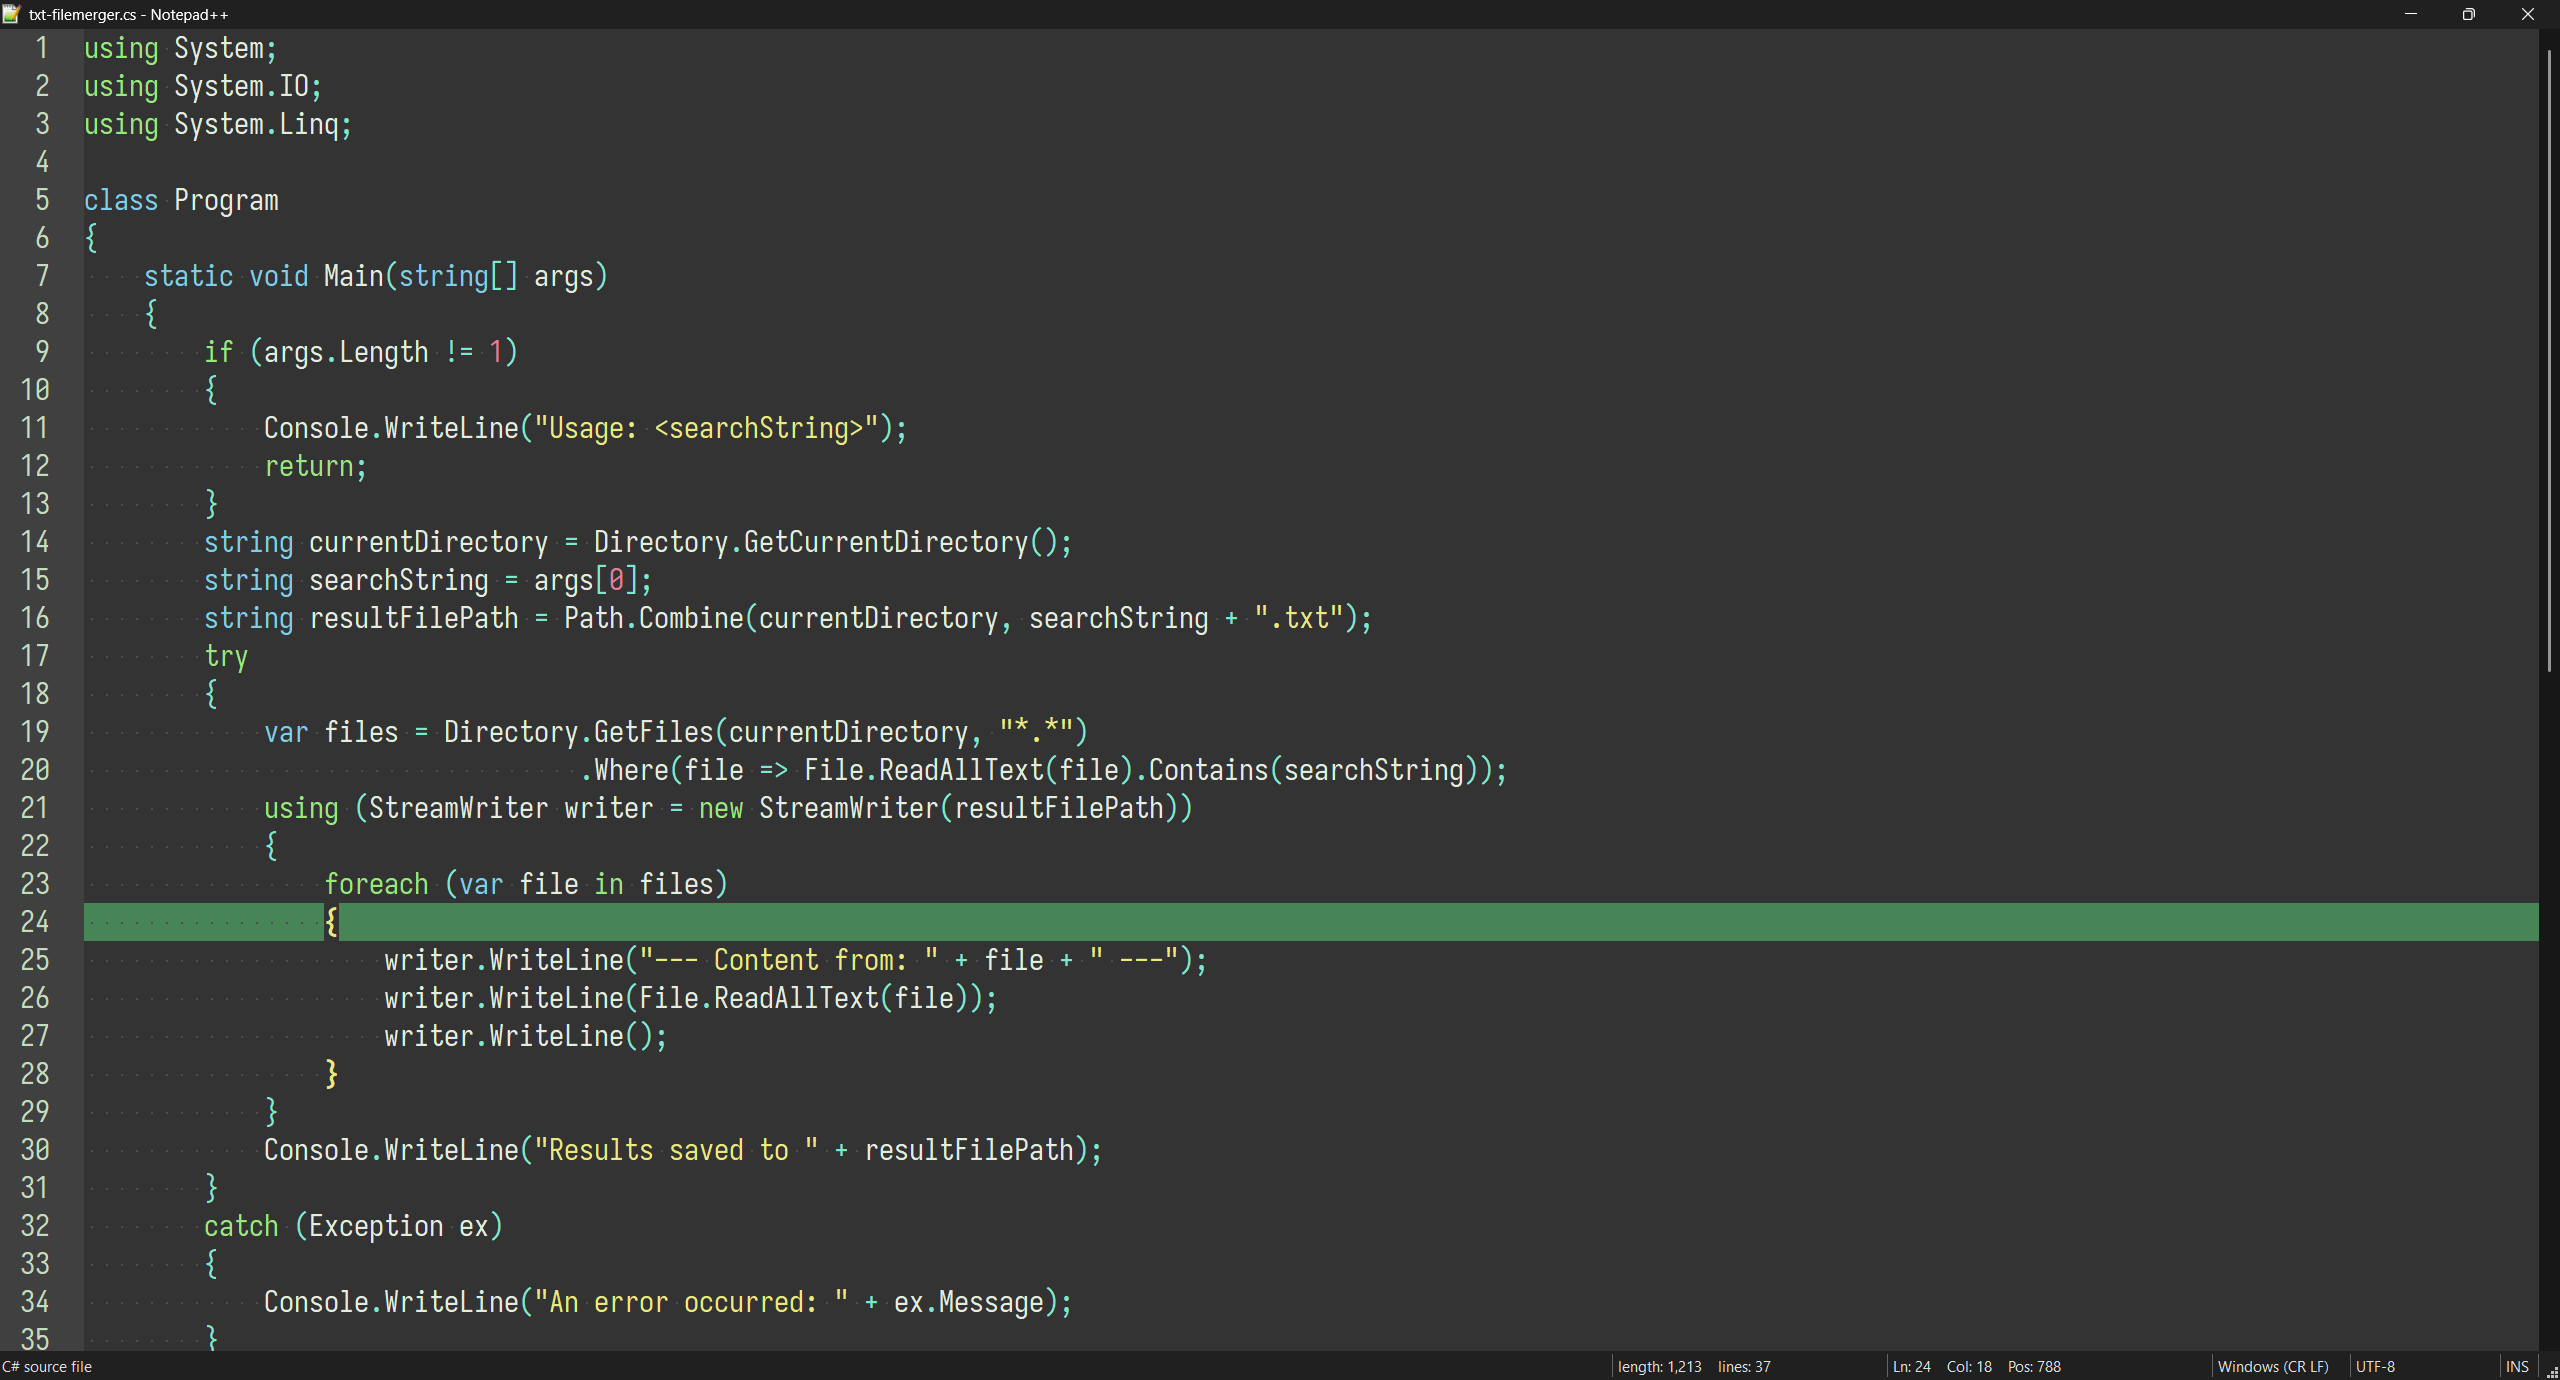
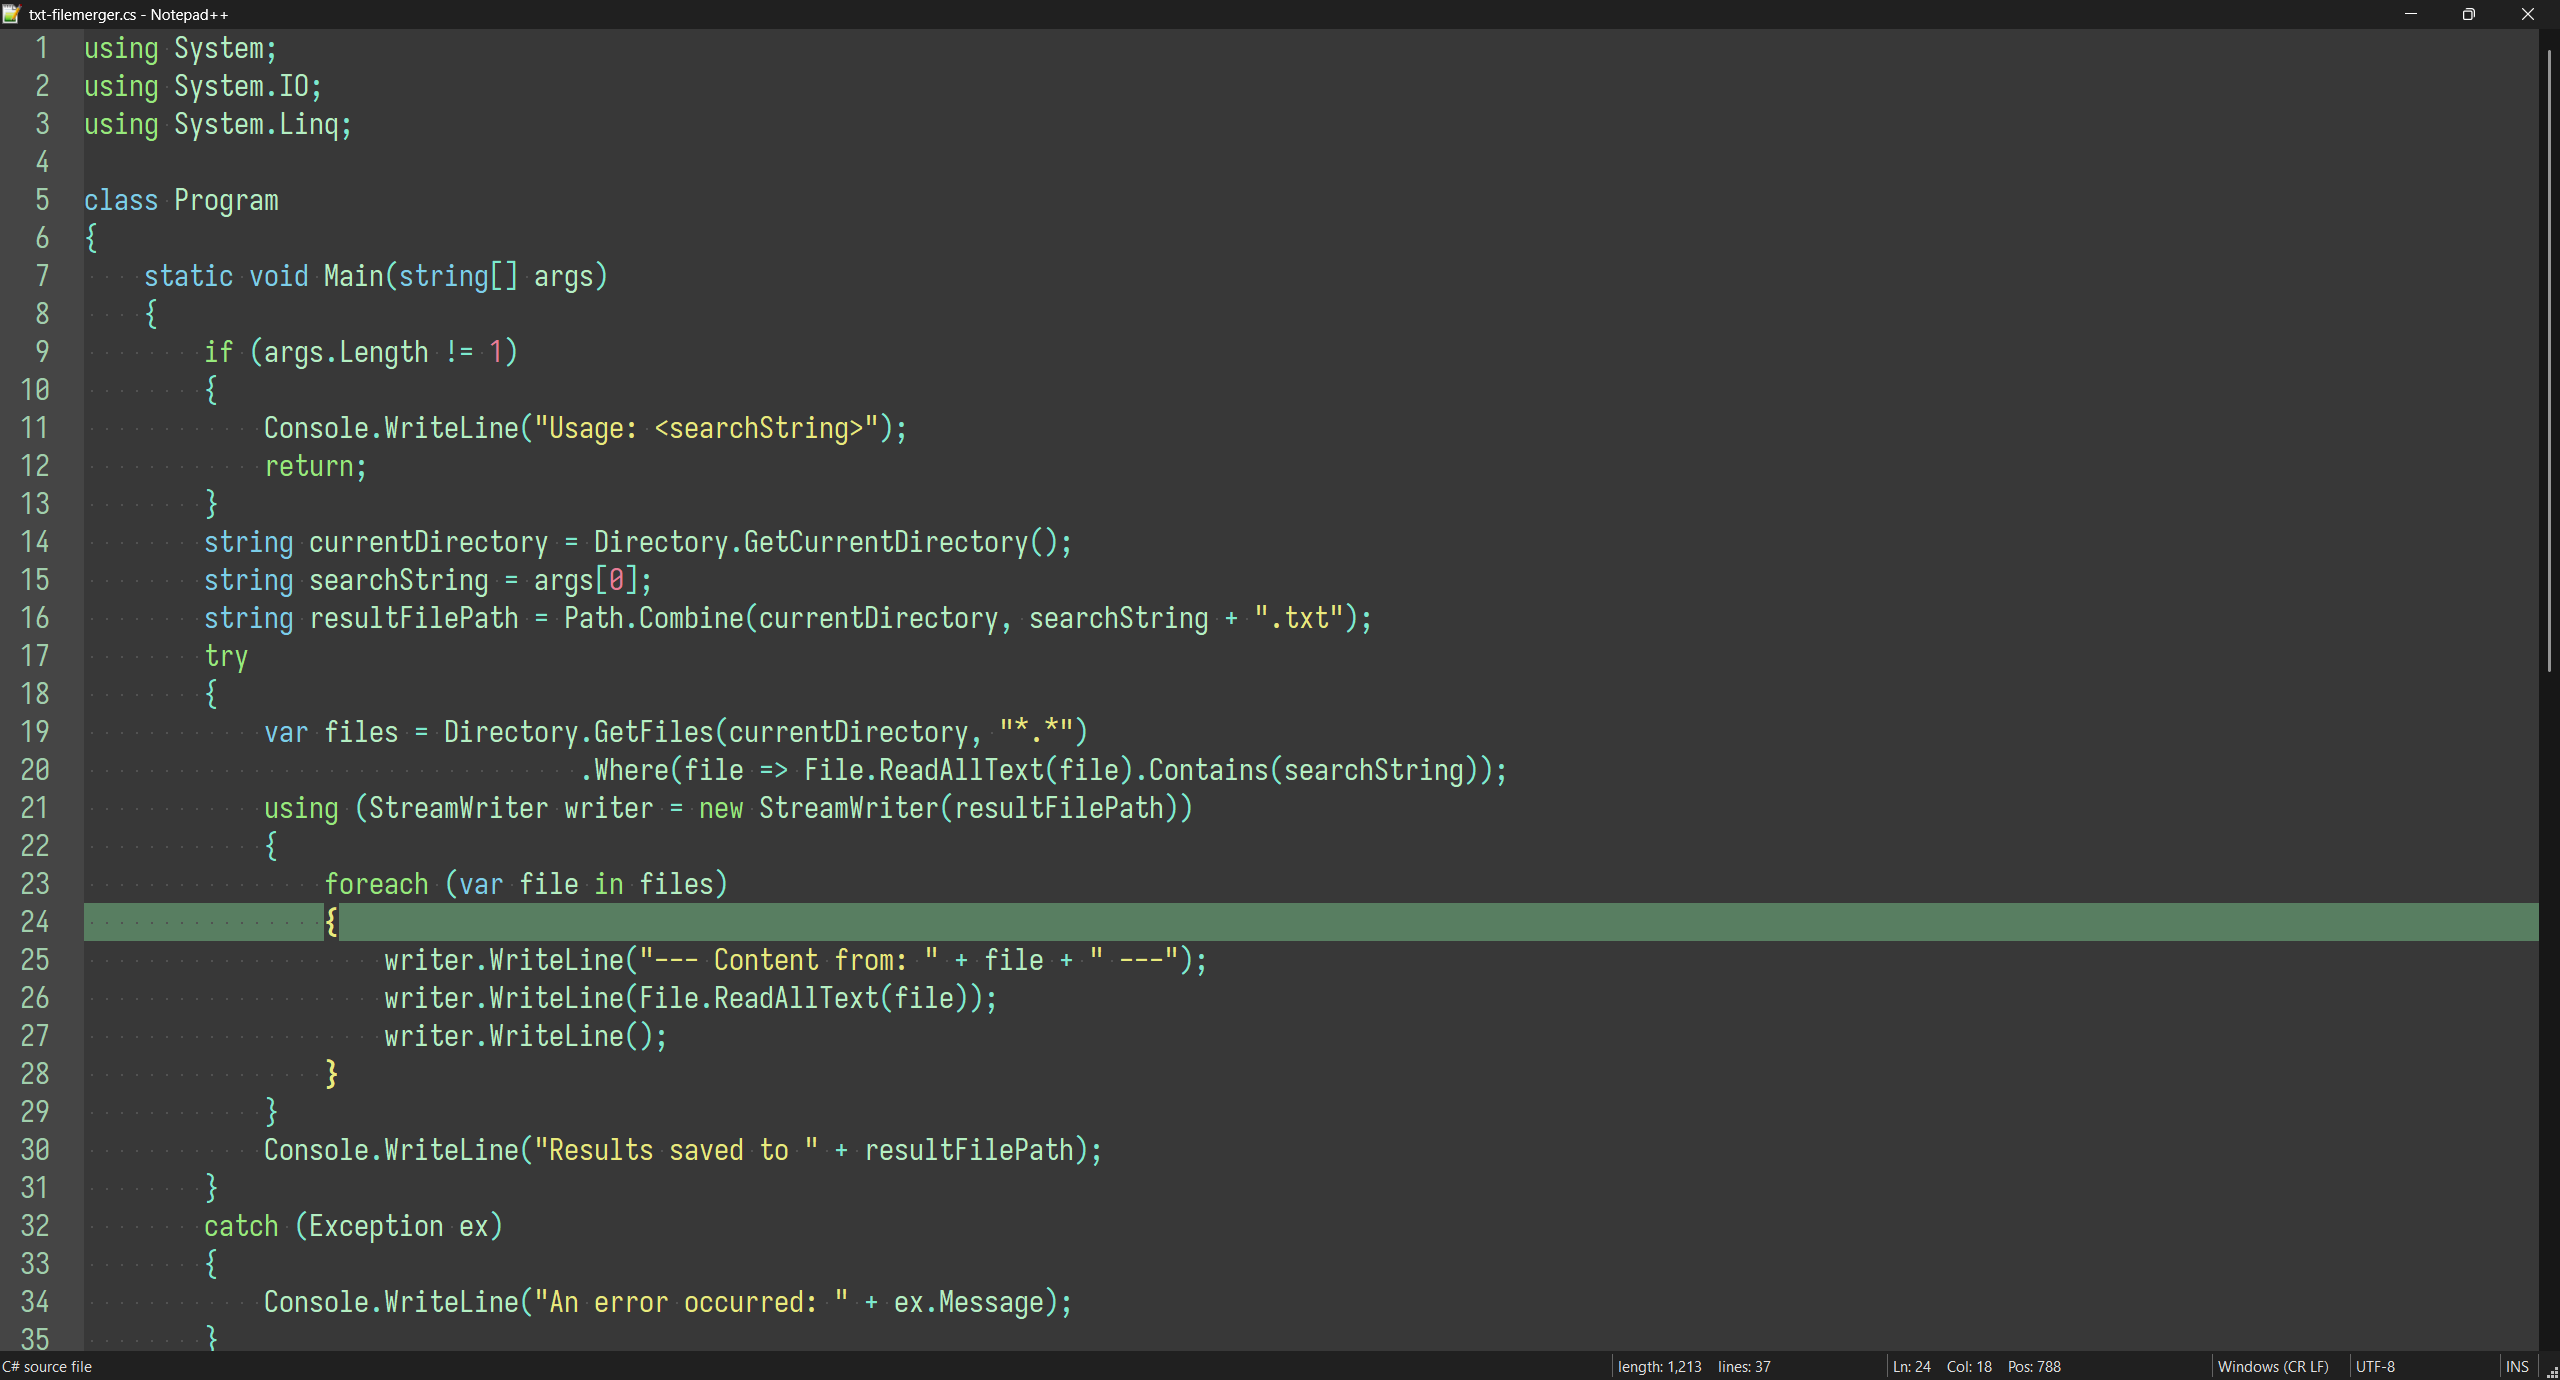
revive joker, bamboo, candy-cane; rework cryogenic / neo-ind ; create zen and snake themes

diff --git a/scheme_files/other/snake.html b/scheme_files/other/snake.html
@@ -26,49 +26,49 @@ this template is meant as a reference sheet for your color theme
 			</tr>
 			<tr>
 				<td>Background - 1st level<br><a>UI: default text bg</a></td>
-				<td>#333333</td>
-				<td style="background-color:#333333;"></td>
+				<td>#383838</td>
+				<td style="background-color:#383838;"></td>
 			</tr>
 			<tr>
 				<td>Background - 2nd level<br><a>UI: inactive tab or file bg, 2nd level surfaces bg</a></td>
-				<td>#404040</td>
-				<td style="background-color:#404040;"></td>
+				<td>#454545</td>
+				<td style="background-color:#454545;"></td>
 			</tr>
 			<tr>
 				<td>Background - 3rd level<br><a>UI: separators, other bg symbols</a></td>
-				<td>#4d4d4d</td>
-				<td style="background-color:#4d4d4d;"></td>
+				<td>#525252</td>
+				<td style="background-color:#525252;"></td>
 			</tr>
 			<tr>
 				<td>Foreground - 1st level<br><a>UI: cursor
                 <br>SYNTAX: default text</a></td>
-				<td>#e2edde</td>
-				<td style="background-color:#e2edde;"></td>
+				<td>#b4eec2</td>
+				<td style="background-color:#b4eec2;"></td>
 			</tr>
 			<tr>
 				<td>Foreground - 2nd level<br><a>UI: 2nd level surfaces fg, inactive tab or file fg</td>
-				<td>#c5dbbd</td>
-				<td style="background-color:#c5dbbd;"></td>
+				<td>#a1ceac</td>
+				<td style="background-color:#a1ceac;"></td>
 			</tr>
 			<tr>
 				<td>Foreground - 3rd level<br><a>UI: fold, line numbers<br>SYNTAX: comments</a></td>
-				<td>#a7c99c</td>
-				<td style="background-color:#a7c99c;"></td>
+				<td>#abc4b1</td>
+				<td style="background-color:#abc4b1;"></td>
 			</tr>
 			<tr>
 				<td>Highlight - 1st level<br><a>UI: alternative marks</a></td>
-				<td>#7ab88a</td>
-				<td style="background-color:#7ab88a;"></td>
+				<td>#8db095</td>
+				<td style="background-color:#8db095;"></td>
 			</tr>	
 			<tr>
 				<td>Highlight - 2nd level<br><a>UI: selection, search marks, fold marks</a></td>
-				<td>#59a66c</td>
-				<td style="background-color:#59a66c;"></td>
+				<td>#6f9b7a</td>
+				<td style="background-color:#6f9b7a;"></td>
 			</tr>	
 			<tr>
 				<td>Highlight - 3rd level<br><a>UI: current line</a></td>
-				<td>#478557</td>
-				<td style="background-color:#478557;"></td>
+				<td>#587e61</td>
+				<td style="background-color:#587e61;"></td>
 			</tr>
 		</table>
 		<br>

diff --git a/scheme_files/other/zen-red.html b/scheme_files/other/zen-red.html
@@ -26,49 +26,49 @@ this template is meant as a reference sheet for your color theme
 			</tr>
 			<tr>
 				<td>Background - 1st level<br><a>UI: default text bg</a></td>
-				<td>#333333</td>
-				<td style="background-color:#333333;"></td>
+				<td>#383838</td>
+				<td style="background-color:#383838;"></td>
 			</tr>
 			<tr>
 				<td>Background - 2nd level<br><a>UI: inactive tab or file bg, 2nd level surfaces bg</a></td>
-				<td>#404040</td>
-				<td style="background-color:#404040;"></td>
+				<td>#454545</td>
+				<td style="background-color:#454545;"></td>
 			</tr>
 			<tr>
 				<td>Background - 3rd level<br><a>UI: separators, other bg symbols</a></td>
-				<td>#4d4d4d</td>
-				<td style="background-color:#4d4d4d;"></td>
+				<td>#525252</td>
+				<td style="background-color:#525252;"></td>
 			</tr>
 			<tr>
 				<td>Foreground - 1st level<br><a>UI: cursor
                 <br>SYNTAX: default text</a></td>
-				<td>#e9e7e2</td>
-				<td style="background-color:#e9e7e2;"></td>
+				<td>#eedfb4</td>
+				<td style="background-color:#eedfb4;"></td>
 			</tr>
 			<tr>
 				<td>Foreground - 2nd level<br><a>UI: 2nd level surfaces fg, inactive tab or file fg</td>
-				<td>#d4d0c4</td>
-				<td style="background-color:#d4d0c4;"></td>
+				<td>#cec2a1</td>
+				<td style="background-color:#cec2a1;"></td>
 			</tr>
 			<tr>
 				<td>Foreground - 3rd level<br><a>UI: fold, line numbers<br>SYNTAX: comments</a></td>
-				<td>#beb8a7</td>
-				<td style="background-color:#beb8a7;"></td>
+				<td>#c4beab</td>
+				<td style="background-color:#c4beab;"></td>
 			</tr>
 			<tr>
 				<td>Highlight - 1st level<br><a>UI: alternative marks</a></td>
-				<td>#ad858f</td>
-				<td style="background-color:#ad858f;"></td>
+				<td>#b08d95</td>
+				<td style="background-color:#b08d95;"></td>
 			</tr>	
 			<tr>
 				<td>Highlight - 2nd level<br><a>UI: selection, search marks, fold marks</a></td>
-				<td>#996673</td>
-				<td style="background-color:#996673;"></td>
+				<td>#9b6f7a</td>
+				<td style="background-color:#9b6f7a;"></td>
 			</tr>	
 			<tr>
 				<td>Highlight - 3rd level<br><a>UI: current line</a></td>
-				<td>#7a525c</td>
-				<td style="background-color:#7a525c;"></td>
+				<td>#7e5861</td>
+				<td style="background-color:#7e5861;"></td>
 			</tr>
 		</table>
 		<br>

diff --git a/scheme_files/other/zen.html b/scheme_files/other/zen.html
@@ -26,49 +26,49 @@ this template is meant as a reference sheet for your color theme
 			</tr>
 			<tr>
 				<td>Background - 1st level<br><a>UI: default text bg</a></td>
-				<td>#333333</td>
-				<td style="background-color:#333333;"></td>
+				<td>#383838</td>
+				<td style="background-color:#383838;"></td>
 			</tr>
 			<tr>
 				<td>Background - 2nd level<br><a>UI: inactive tab or file bg, 2nd level surfaces bg</a></td>
-				<td>#404040</td>
-				<td style="background-color:#404040;"></td>
+				<td>#454545</td>
+				<td style="background-color:#454545;"></td>
 			</tr>
 			<tr>
 				<td>Background - 3rd level<br><a>UI: separators, other bg symbols</a></td>
-				<td>#4d4d4d</td>
-				<td style="background-color:#4d4d4d;"></td>
+				<td>#525252</td>
+				<td style="background-color:#525252;"></td>
 			</tr>
 			<tr>
 				<td>Foreground - 1st level<br><a>UI: cursor
                 <br>SYNTAX: default text</a></td>
-				<td>#e9e9e2</td>
-				<td style="background-color:#e9e9e2;"></td>
+				<td>#e7eeb4</td>
+				<td style="background-color:#e7eeb4;"></td>
 			</tr>
 			<tr>
 				<td>Foreground - 2nd level<br><a>UI: 2nd level surfaces fg, inactive tab or file fg</td>
-				<td>#d2d3c5</td>
-				<td style="background-color:#d2d3c5;"></td>
+				<td>#cacfa1</td>
+				<td style="background-color:#cacfa1;"></td>
 			</tr>
 			<tr>
 				<td>Foreground - 3rd level<br><a>UI: fold, line numbers<br>SYNTAX: comments</a></td>
-				<td>#bcbda8</td>
-				<td style="background-color:#bcbda8;"></td>
+				<td>#c2c5ab</td>
+				<td style="background-color:#c2c5ab;"></td>
 			</tr>
 			<tr>
 				<td>Highlight - 1st level<br><a>UI: alternative marks</a></td>
-				<td>#a6a78b</td>
-				<td style="background-color:#a6a78b;"></td>
+				<td>#adb08d</td>
+				<td style="background-color:#adb08d;"></td>
 			</tr>	
 			<tr>
 				<td>Highlight - 2nd level<br><a>UI: selection, search marks, fold marks</a></td>
-				<td>#8f916e</td>
-				<td style="background-color:#8f916e;"></td>
+				<td>#989b6f</td>
+				<td style="background-color:#989b6f;"></td>
 			</tr>	
 			<tr>
 				<td>Highlight - 3rd level<br><a>UI: current line</a></td>
-				<td>#727458</td>
-				<td style="background-color:#727458;"></td>
+				<td>#7c7e58</td>
+				<td style="background-color:#7c7e58;"></td>
 			</tr>
 		</table>
 		<br>

diff --git a/doc/galery.md b/doc/galery.md
@@ -160,7 +160,6 @@ A medium light theme with a slightly burned color scheme and foreground.<br><br>
 ![](/assets/pictures/text-editor/zen.png)<br><br>
 ![](/assets/pictures/terminal/zen.png)<br><br>
 *Red Version*<br>
-While making this I thought a red would fit nicely as well having the Sith (Star Wars) in mind.<br><br>
 ![](/assets/pictures/text-editor/zen-red.png)<br><br>
 ![](/assets/pictures/terminal/zen-red.png)<br><br>
 
